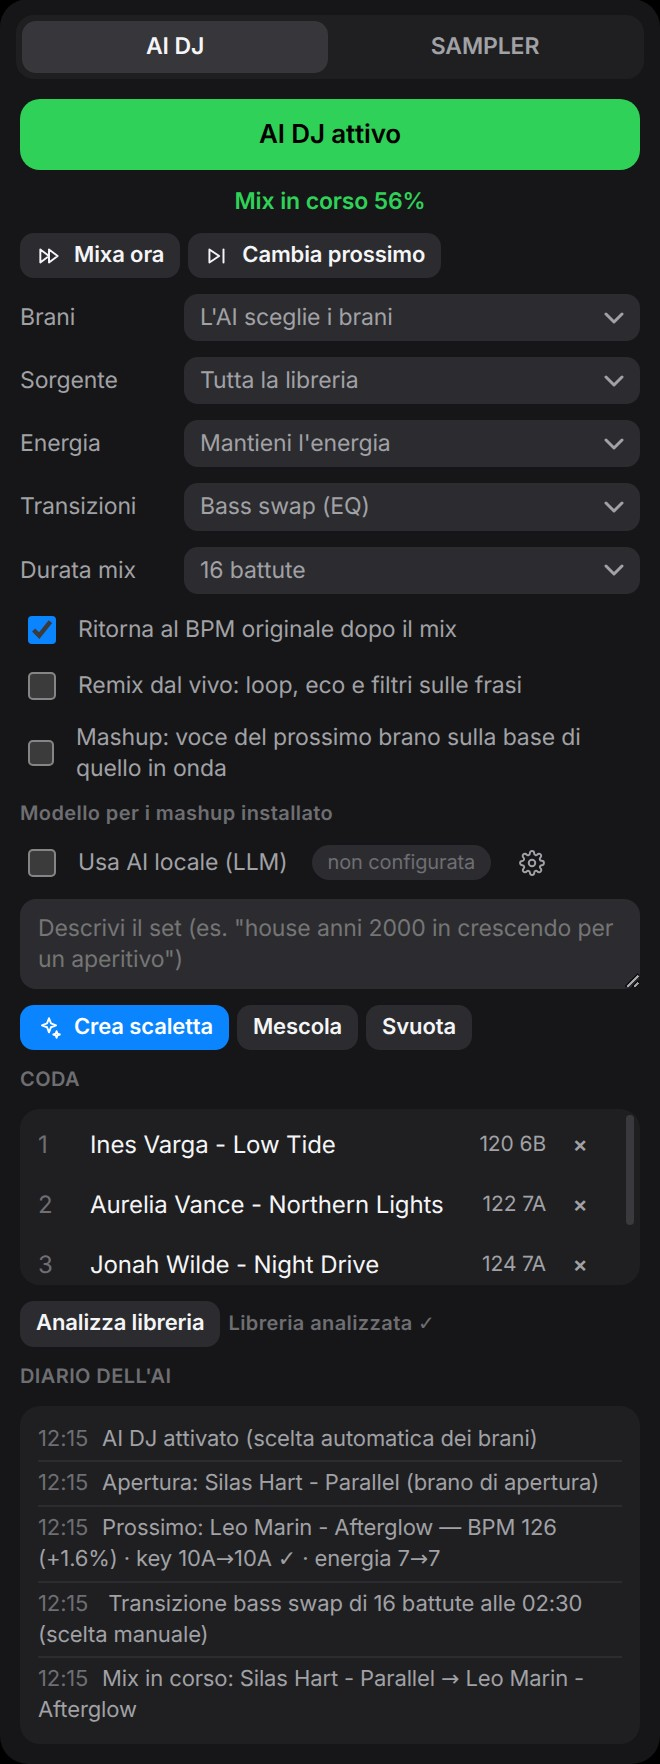
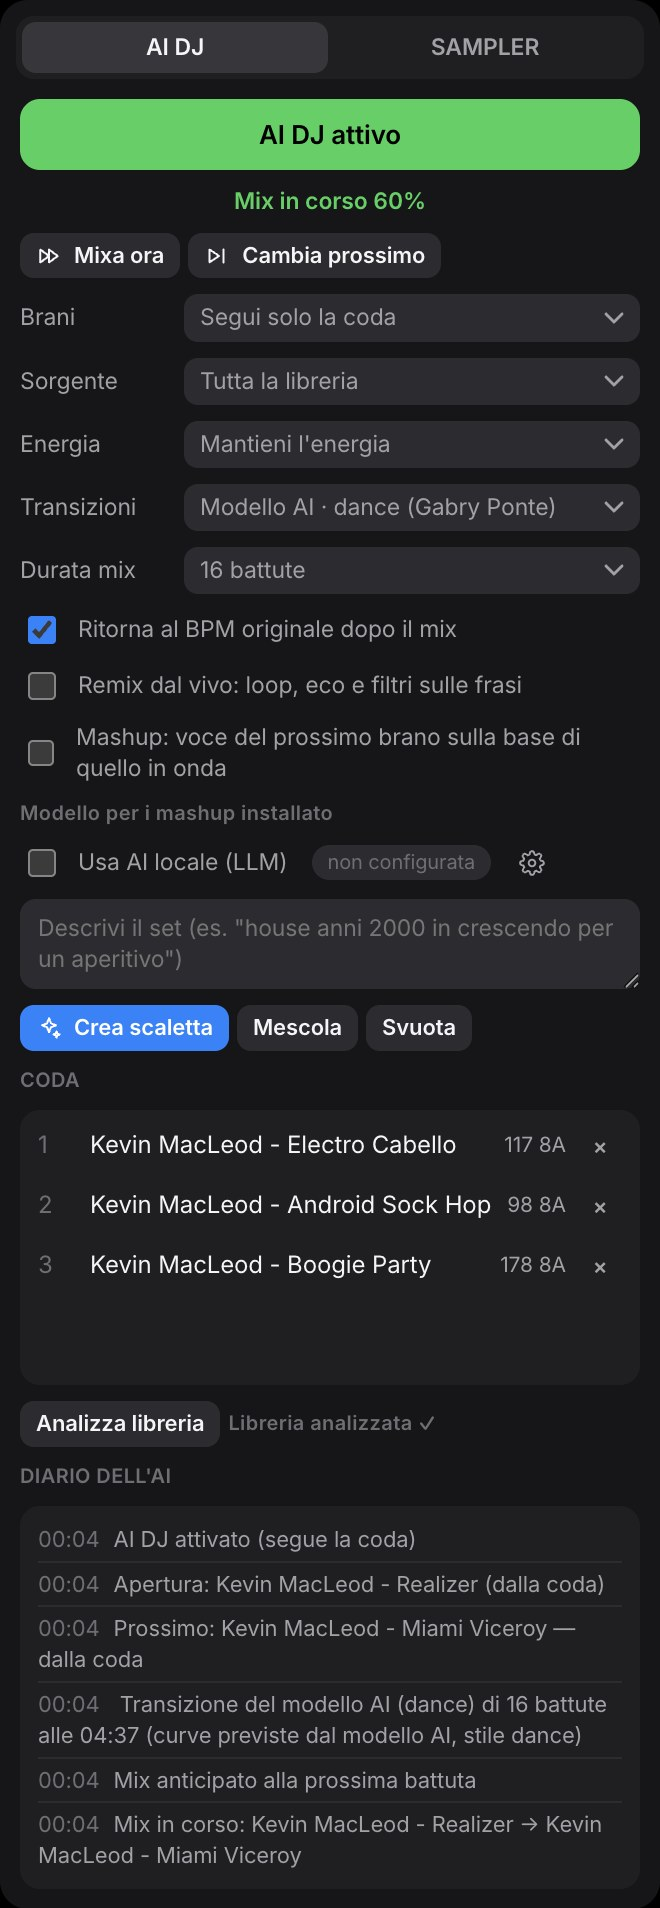
Sito: stili dance e techno, tagli a raffica, modelli Segueo e foto rifatte dall'app
Claude-Session: https://claude.ai/code/session_01F9ckecvmnrBBRLUF2bzhPc

Changed region(s): [[0.0303, 0.0, 0.9697, 0.9977], [0.9394, 0.6236, 0.9697, 0.6859]]

diff --git a/site/index.html b/site/index.html
@@ -52,7 +52,7 @@
     <div class="stats-inner">
       <div class="stat reveal"><span class="stat-num">2</span><span class="stat-label">deck con scratch, keylock e sync</span></div>
       <div class="stat reveal"><span class="stat-num">35</span><span class="stat-label">console DJ riconosciute al volo</span></div>
-      <div class="stat reveal"><span class="stat-num">6</span><span class="stat-label">stili di transizione automatica</span></div>
+      <div class="stat reveal"><span class="stat-num">8</span><span class="stat-label">stili di transizione automatica</span></div>
       <div class="stat reveal"><span class="stat-num">0</span><span class="stat-label">dati inviati su internet</span></div>
     </div>
   </section>
@@ -79,7 +79,7 @@
       <li class="step reveal">
         <span class="step-num">03</span>
         <h3>Pianifica</h3>
-        <p>Sceglie il punto d'uscita all'inizio di una frase musicale e lo stile: bass swap, filtro, echo out, dissolvenza o taglio sul beat.</p>
+        <p>Sceglie il punto d'uscita all'inizio di una frase musicale e lo stile: bass swap, filtro, echo out, dissolvenza, taglio sul beat o tagli a raffica. Oppure lascia le curve al modello AI, in stile dance o techno.</p>
       </li>
       <li class="step reveal">
         <span class="step-num">04</span>
@@ -90,7 +90,7 @@
 
     <div class="ai-showcase">
       <figure class="ai-panel reveal">
-        <img src="img/ai-panel.jpg" alt="Pannello AI DJ con modalità, energia, transizioni, remix, mashup, coda e diario delle decisioni" loading="lazy">
+        <img src="img/ai-panel.jpg" alt="Pannello AI DJ a metà di una transizione con il modello AI in stile dance: modalità, energia, transizioni, remix, mashup, coda e diario delle decisioni" loading="lazy">
       </figure>
       <div class="ai-copy reveal">
         <h3>Ti dice sempre cosa sta facendo.</h3>
@@ -98,13 +98,14 @@
         <div class="log" role="presentation">
           <div><span>›</span>Prossimo: Nova Reyes — Golden Hour</div>
           <div class="log-dim">BPM 124 (−0,8%) · key 9B → 8B ✓ · energia 6 → 6</div>
-          <div class="log-dim">Transizione filtro di 16 battute alle 02:36 · brani compatibili</div>
+          <div class="log-dim">Transizione del modello AI (dance) di 16 battute alle 02:36 · curve previste dal modello AI, stile dance</div>
           <div><span>›</span>Mix in corso: Sunday Motion → Golden Hour</div>
         </div>
         <ul class="ticks">
           <li>Energia costante, crescente, a onde, rilassata o di picco</li>
           <li>Sceglie dalla libreria, da una playlist o dalla tua coda</li>
           <li>Crea scalette complete da una frase: "house al tramonto, poi sempre più energica"</li>
+          <li>Tre modi da DJ vero: dance con cambi corti e a tempo, techno con dissolvenze lunghe, tagli a raffica sul battere</li>
         </ul>
       </div>
     </div>
@@ -129,7 +130,14 @@
     <div class="soon-card reveal">
       <span class="pill">Incluso nell'app</span>
       <h2>Reti neurali nate<br>solo per mixare.</h2>
-      <p>Segueo contiene già tre modelli AI, tutti dentro l'installer: Beat This! trova i battiti e l'inizio di ogni battuta, il modello delle transizioni, allenato su DJ set veri, decide crossfader ed EQ, e Demucs separa voce e base per i mashup. Girano interamente sul tuo computer, con la sola CPU, senza connessione e senza abbonamenti.</p>
+      <p>Segueo contiene già quattro modelli AI, tutti dentro l'installer. Girano interamente sul tuo computer, con la sola CPU, senza connessione e senza abbonamenti.</p>
+      <dl class="model-list">
+        <div><dt>Segueo Analisi battute</dt><dd>Trova i battiti e l'inizio di ogni battuta. Basato su Beat This! (CPJKU).</dd></div>
+        <div><dt>Segueo Transizioni · dance</dt><dd>Decide crossfader, EQ e filtri battuta per battuta. Ha imparato i cambi corti e a tempo dei mix dance di Gabry Ponte.</dd></div>
+        <div><dt>Segueo Transizioni · techno</dt><dd>Lo stesso lavoro con le dissolvenze lunghe dei DJ set techno e minimal, anche per transizioni di 64 battute.</dd></div>
+        <div><dt>Segueo Separazione voce</dt><dd>Separa voce e base per i mashup. Basato su Demucs v4 (Meta).</dd></div>
+      </dl>
+      <p class="soon-note">I tagli a raffica seguono il ritmo misurato nei set di LUM!X: ogni brano suona 16-24 battute e il successivo entra con un taglio secco sul battere, una volta su tre direttamente dal suo drop. Segueo non è affiliato ai DJ citati.</p>
       <p class="soon-note">In più puoi collegare un modello linguistico locale (Ollama, LM Studio e compatibili) per scegliere i brani e creare scalette descritte a parole.</p>
     </div>
   </section>
@@ -229,7 +237,7 @@
         <p class="lead">Analisi, scelte e mix avvengono in locale. Se colleghi un modello linguistico, anche quello gira sulla tua macchina: nessun brano, titolo o dato lascia il PC.</p>
       </div>
       <figure class="split-shot reveal">
-        <img src="img/settings-ai.jpg" alt="Impostazioni dell'AI: motore di analisi Beat This!, vista all'avvio e modello linguistico locale facoltativo" loading="lazy">
+        <img src="img/settings-ai.jpg" alt="Impostazioni dell'AI: motore di analisi Segueo Analisi battute, vista all'avvio e modello linguistico locale facoltativo" loading="lazy">
       </figure>
     </div>
   </section>

diff --git a/ml/eval/electron/site-ai-panel.js b/ml/eval/electron/site-ai-panel.js
@@ -1,0 +1,80 @@
+// Foto del pannello AI DJ per il sito (site/img/ai-panel.jpg) dall'app vera: libreria analizzata, coda di 5 brani
+// Creative Commons (stessa tonalità, così il piano tiene le 16 battute scelte), stile "Modello AI · dance",
+// transizione fotografata a metà (volume master a zero). L'altezza della finestra (Emulation.setDeviceMetricsOverride,
+// densità 2x) è la più piccola in cui il pannello si vede tutto senza scorrere.
+// Uso: npx electron ml/eval/electron/site-ai-panel.js
+const { app, BrowserWindow } = require('electron');
+const path = require('node:path');
+const fs = require('node:fs');
+const os = require('node:os');
+
+const REPO = path.join(__dirname, '..', '..', '..');
+const AUDIO = path.join(REPO, 'ml', 'data', 'audio', 'cc');
+const OUT = path.join(REPO, 'site', 'img', 'ai-panel.jpg');
+const tmp = fs.mkdtempSync(path.join(os.tmpdir(), 'segueo-site-'));
+app.setPath('userData', tmp);
+// niente proposta di aggiornamento sopra la foto
+fs.writeFileSync(path.join(tmp, 'settings.json'), JSON.stringify({ ai: { analysisEngine: 'ai', autoAnalyze: false }, updates: { auto: false } }));
+require(path.join(REPO, 'src', 'main', 'main.js'));
+
+app.whenReady().then(async () => {
+  let win;
+  while (!(win = BrowserWindow.getAllWindows()[0])) await new Promise((r) => setTimeout(r, 100));
+  await new Promise((r) => win.webContents.once('did-finish-load', r));
+  const js = (code) => win.webContents.executeJavaScript(code);
+  while (!(await js('Boolean(window.dj && dj.automix && dj.library)'))) await new Promise((r) => setTimeout(r, 200));
+  const names = ['Realizer.mp3', 'Miami Viceroy.mp3', 'Electro Cabello.mp3', 'Android Sock Hop.mp3', 'Boogie Party.mp3'];
+  const files = names.map((f) => path.join(AUDIO, f));
+  const state = await js(`(async () => {
+    const sleep = (ms) => new Promise((r) => setTimeout(r, ms));
+    dj.engine.masterGain.gain.value = 0;
+    const res = await dj.api.addFiles(${JSON.stringify(files)});
+    dj.library.setLibrary(res.snapshot);
+    const t = dj.library.lib.tracks;
+    for (const x of t) { x.key = 'Am'; await dj.api.updateTrack(x.id, { key: 'Am' }); }
+    await dj.analyzer.run(t);
+    for (let i = 0; i < 1200 && dj.analyzer.running; i++) await sleep(100);
+    const byName = (n) => t.find((x) => x.path.endsWith(n));
+    const a = dj.automix;
+    a.setOptions({ mode: 'queue', style: 'model', bars: 16 });
+    a.setQueue(${JSON.stringify(names)}.map(byName));
+    a.setEnabled(true);
+    for (let i = 0; i < 900 && !(a.plan && a.plan.curves); i++) await sleep(100);
+    a.mixNow();
+    for (let i = 0; i < 600 && !a.transition; i++) await sleep(50);
+    // a metà della transizione
+    for (let i = 0; i < 1200; i++) {
+      const tr = a.transition;
+      if (tr && (performance.now() - tr.start) / tr.duration >= 0.5) break;
+      await sleep(50);
+    }
+    return { plan: a.plan && a.plan.type, inTransition: Boolean(a.transition) };
+  })()`);
+  const dbg = win.webContents.debugger;
+  dbg.attach('1.3');
+  // l'altezza più piccola in cui il contenuto del pannello non deve scorrere
+  for (let h = 1100; h <= 2400; h += 50) {
+    await dbg.sendCommand('Emulation.setDeviceMetricsOverride', { width: 1440, height: h, deviceScaleFactor: 2, mobile: false });
+    await new Promise((r) => setTimeout(r, 250));
+    // il riquadro della scheda AI DJ è l'unico che scorre (il diario ha un suo limite di altezza)
+    const fits = await js(`(() => { const p = [...document.querySelectorAll('.side .tab-pane')].find((e) => getComputedStyle(e).display !== 'none'); return p.scrollHeight <= p.clientHeight + 1; })()`);
+    if (fits) {
+      // un po' di respiro: all'altezza minima la casella della scaletta e la coda si schiacciano
+      await dbg.sendCommand('Emulation.setDeviceMetricsOverride', { width: 1440, height: h + 180, deviceScaleFactor: 2, mobile: false });
+      break;
+    }
+  }
+  await new Promise((r) => setTimeout(r, 900));
+  // il diario si ferma all'inizio di una riga intera, con le ultime righe visibili
+  await js(`(() => { const log = document.querySelector('.ai-log'); const rows = [...log.children]; let top = log.scrollHeight;
+    for (let i = rows.length - 1; i >= 0; i--) { if (log.scrollHeight - rows[i].offsetTop > log.clientHeight) break; top = rows[i].offsetTop; }
+    log.scrollTop = Math.max(0, top - 6); return log.scrollTop; })()`);
+  await new Promise((r) => setTimeout(r, 300));
+  const rect = await js(`(() => { const b = document.querySelector('.side').getBoundingClientRect(); return { x: b.x, y: b.y, width: b.width, height: b.height }; })()`);
+  const shot = await dbg.sendCommand('Page.captureScreenshot', { format: 'jpeg', quality: 88, clip: { ...rect, scale: 1 }, captureBeyondViewport: true });
+  fs.writeFileSync(OUT, Buffer.from(shot.data, 'base64'));
+  console.log(JSON.stringify({ ...state, rect }));
+  await js('dj.automix.setEnabled(false)');
+  fs.rmSync(tmp, { recursive: true, force: true });
+  app.exit(0);
+});

diff --git a/ml/eval/electron/site-settings-ai.js b/ml/eval/electron/site-settings-ai.js
@@ -1,0 +1,35 @@
+// Foto delle impostazioni dell'AI per il sito (site/img/settings-ai.jpg) dall'app vera: Impostazioni → AI locale,
+// motore di analisi AI con il modello installato. Stessa inquadratura della foto precedente (finestra modale a 2x).
+// Uso: npx electron ml/eval/electron/site-settings-ai.js
+const { app, BrowserWindow } = require('electron');
+const path = require('node:path');
+const fs = require('node:fs');
+const os = require('node:os');
+
+const REPO = path.join(__dirname, '..', '..', '..');
+const OUT = path.join(REPO, 'site', 'img', 'settings-ai.jpg');
+const tmp = fs.mkdtempSync(path.join(os.tmpdir(), 'segueo-site-'));
+app.setPath('userData', tmp);
+fs.writeFileSync(path.join(tmp, 'settings.json'), JSON.stringify({ ai: { analysisEngine: 'ai', autoAnalyze: true }, updates: { auto: false } }));
+require(path.join(REPO, 'src', 'main', 'main.js'));
+
+app.whenReady().then(async () => {
+  let win;
+  while (!(win = BrowserWindow.getAllWindows()[0])) await new Promise((r) => setTimeout(r, 100));
+  await new Promise((r) => win.webContents.once('did-finish-load', r));
+  const js = (code) => win.webContents.executeJavaScript(code);
+  while (!(await js('Boolean(window.dj && dj.automix)'))) await new Promise((r) => setTimeout(r, 200));
+  const dbg = win.webContents.debugger;
+  dbg.attach('1.3');
+  await dbg.sendCommand('Emulation.setDeviceMetricsOverride', { width: 1440, height: 900, deviceScaleFactor: 2, mobile: false });
+  await js("dj.openSettings('ai')");
+  // stato del modello (controllo asincrono) e animazione della finestra
+  for (let i = 0; i < 50 && !(await js("Boolean(document.querySelector('.settings .ai-test.ok'))")); i++) await new Promise((r) => setTimeout(r, 100));
+  await new Promise((r) => setTimeout(r, 800));
+  const rect = await js(`(() => { const b = document.querySelector('.modal.settings').getBoundingClientRect(); return { x: b.x, y: b.y, width: b.width, height: b.height }; })()`);
+  const shot = await dbg.sendCommand('Page.captureScreenshot', { format: 'jpeg', quality: 88, clip: { ...rect, scale: 1 } });
+  fs.writeFileSync(OUT, Buffer.from(shot.data, 'base64'));
+  console.log(JSON.stringify(rect));
+  fs.rmSync(tmp, { recursive: true, force: true });
+  app.exit(0);
+});

diff --git a/site/styles.css b/site/styles.css
@@ -124,6 +124,11 @@ figcaption { font-size: 14px; color: var(--ink-3); margin-top: 16px; text-align:
 .soon-card h2 { font-size: clamp(38px, 5.4vw, 60px); line-height: 1.06; margin-bottom: 26px; }
 .soon-card p { font-size: 21px; line-height: 1.42; color: var(--ink-2); max-width: 720px; }
 .soon-card .soon-note { font-size: 16px; color: var(--ink-3); margin-top: 22px; max-width: 560px; }
+.model-list { display: grid; grid-template-columns: repeat(2, minmax(0, 1fr)); gap: 18px 28px; margin: 34px 0 0; max-width: 760px; text-align: left; }
+.model-list div { border-top: 1px solid var(--line); padding-top: 14px; }
+.model-list dt { font-size: 17px; font-weight: 600; color: var(--ink); margin-bottom: 6px; }
+.model-list dd { margin: 0; font-size: 15px; line-height: 1.45; color: var(--ink-2); }
+@media (max-width: 640px) { .model-list { grid-template-columns: 1fr; } }
 /* la sottile riga A/B richiama i due deck, senza effetti luminosi */
 .soon-card::after { content: ""; display: block; width: 120px; height: 3px; margin-top: 44px; border-radius: 2px; background: linear-gradient(90deg, var(--deck-a) 50%, var(--deck-b) 50%); }
 
